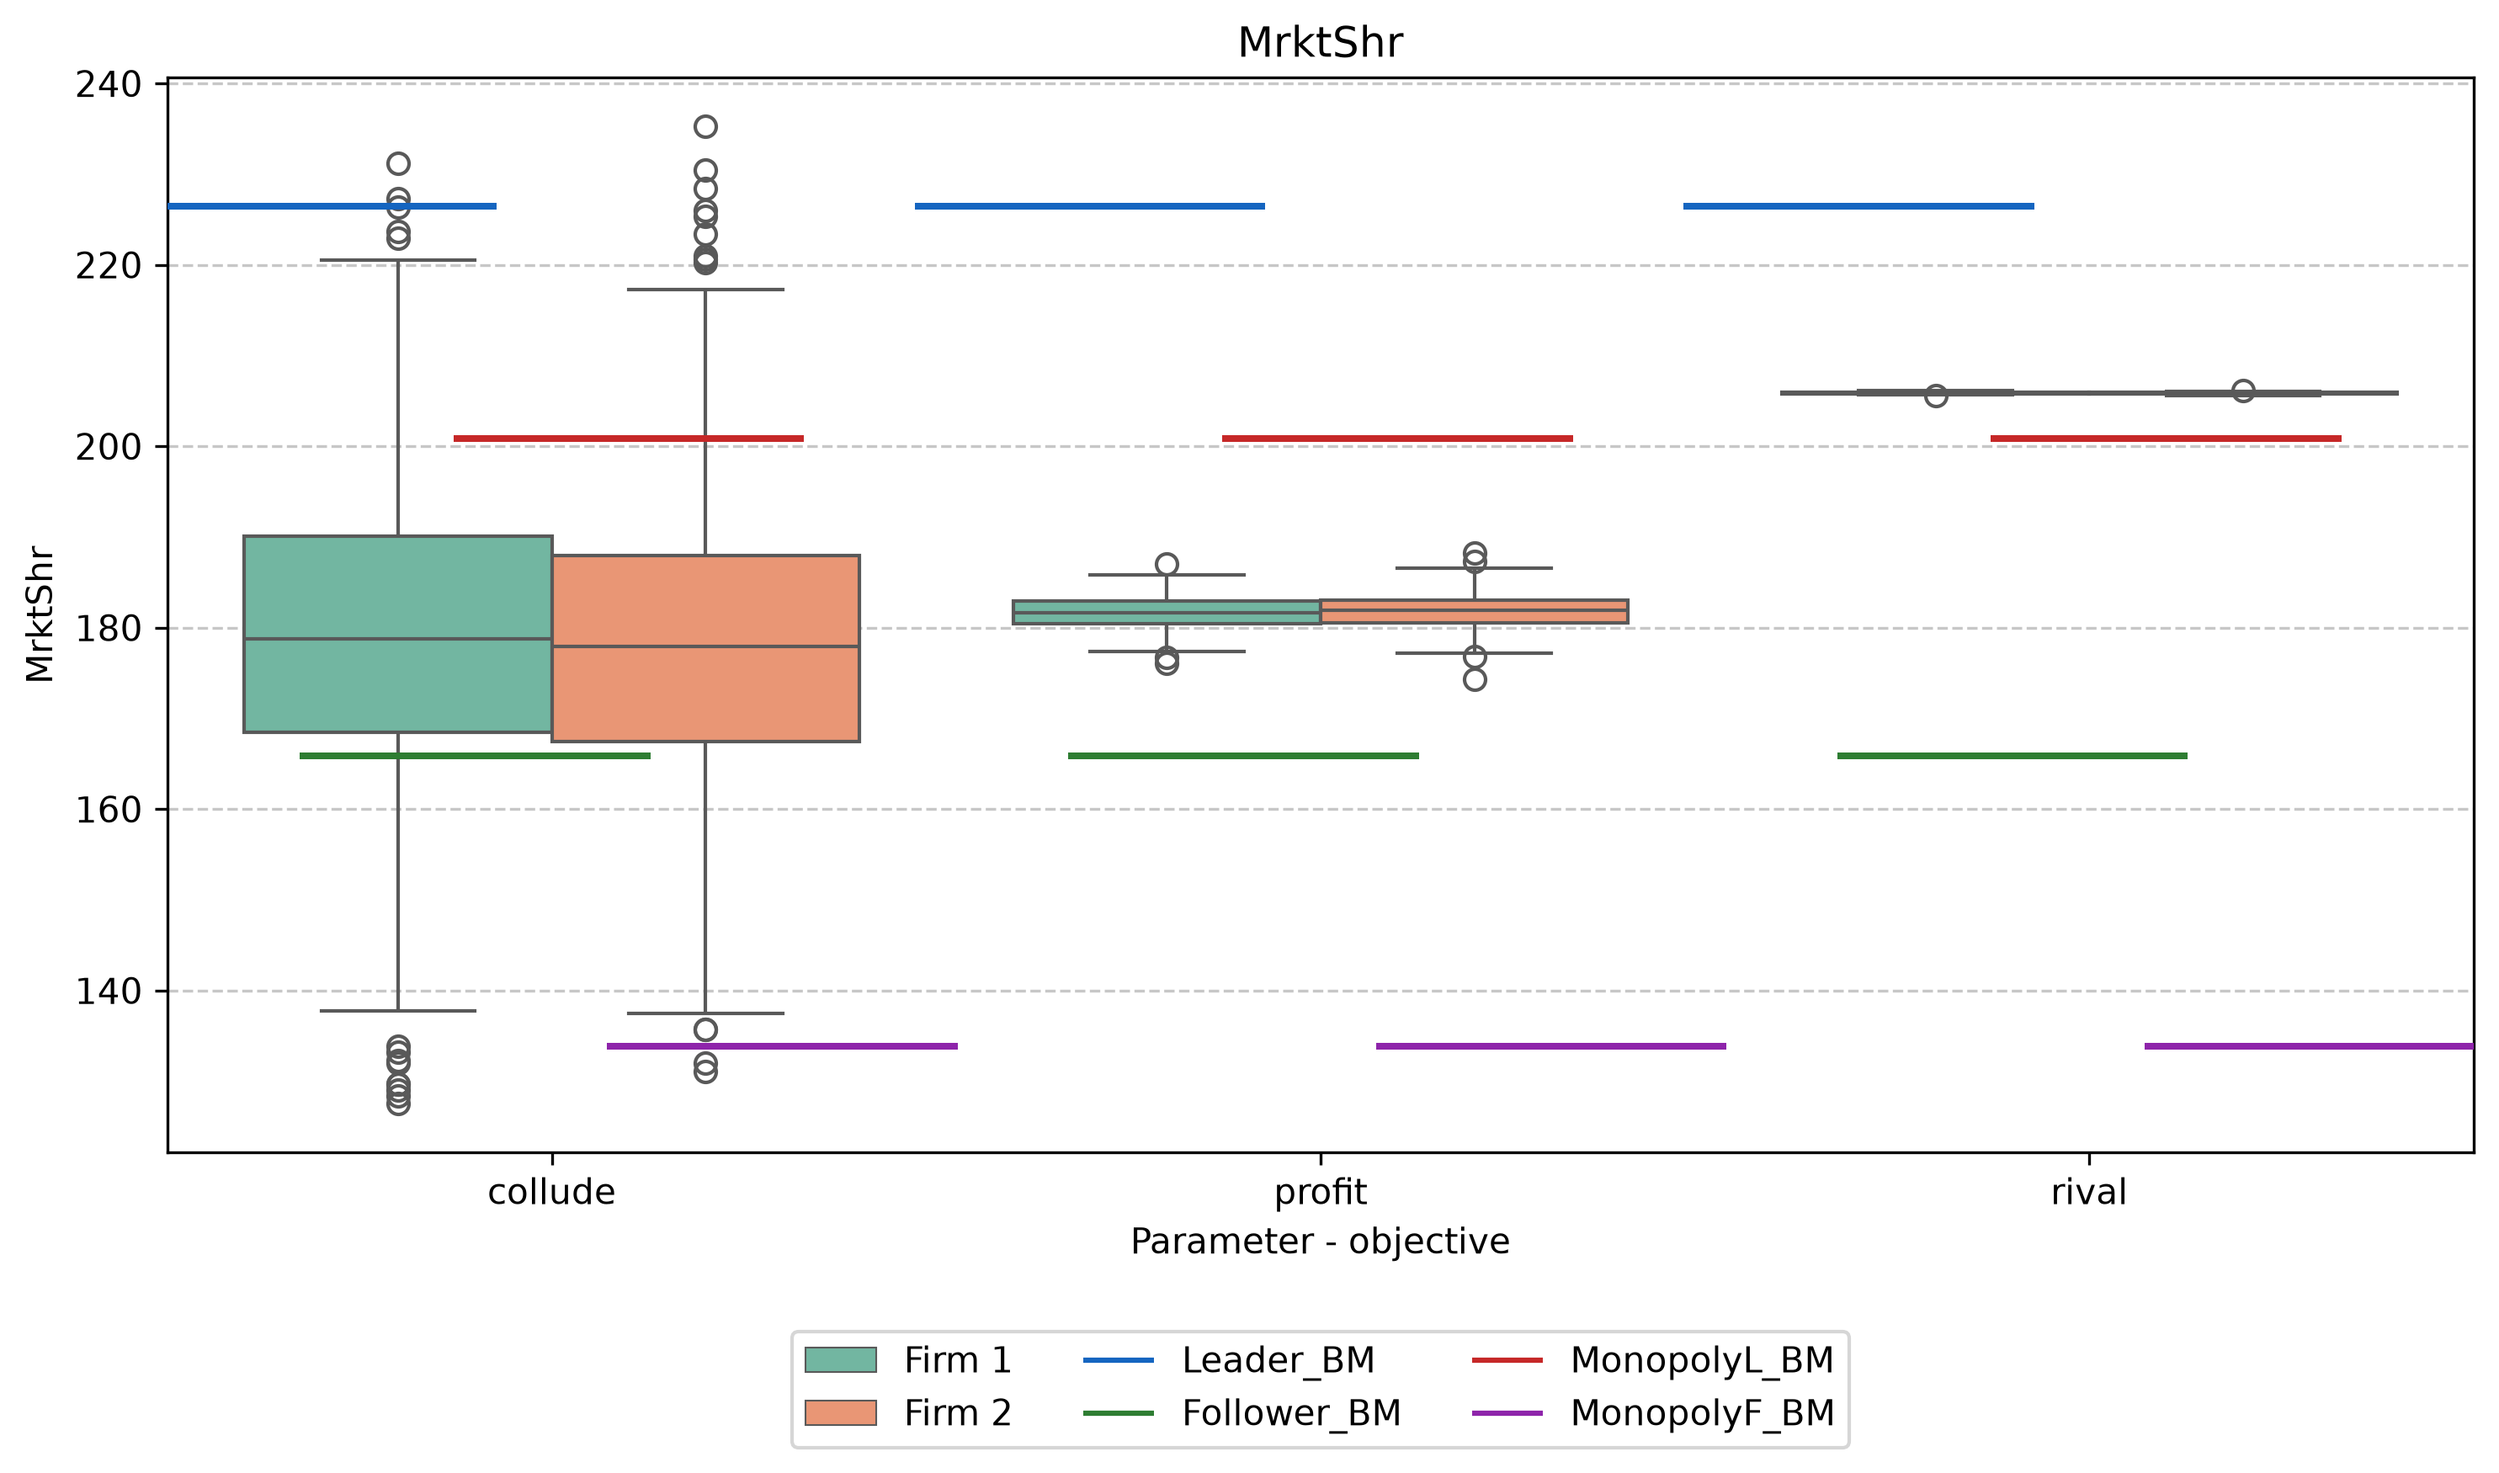
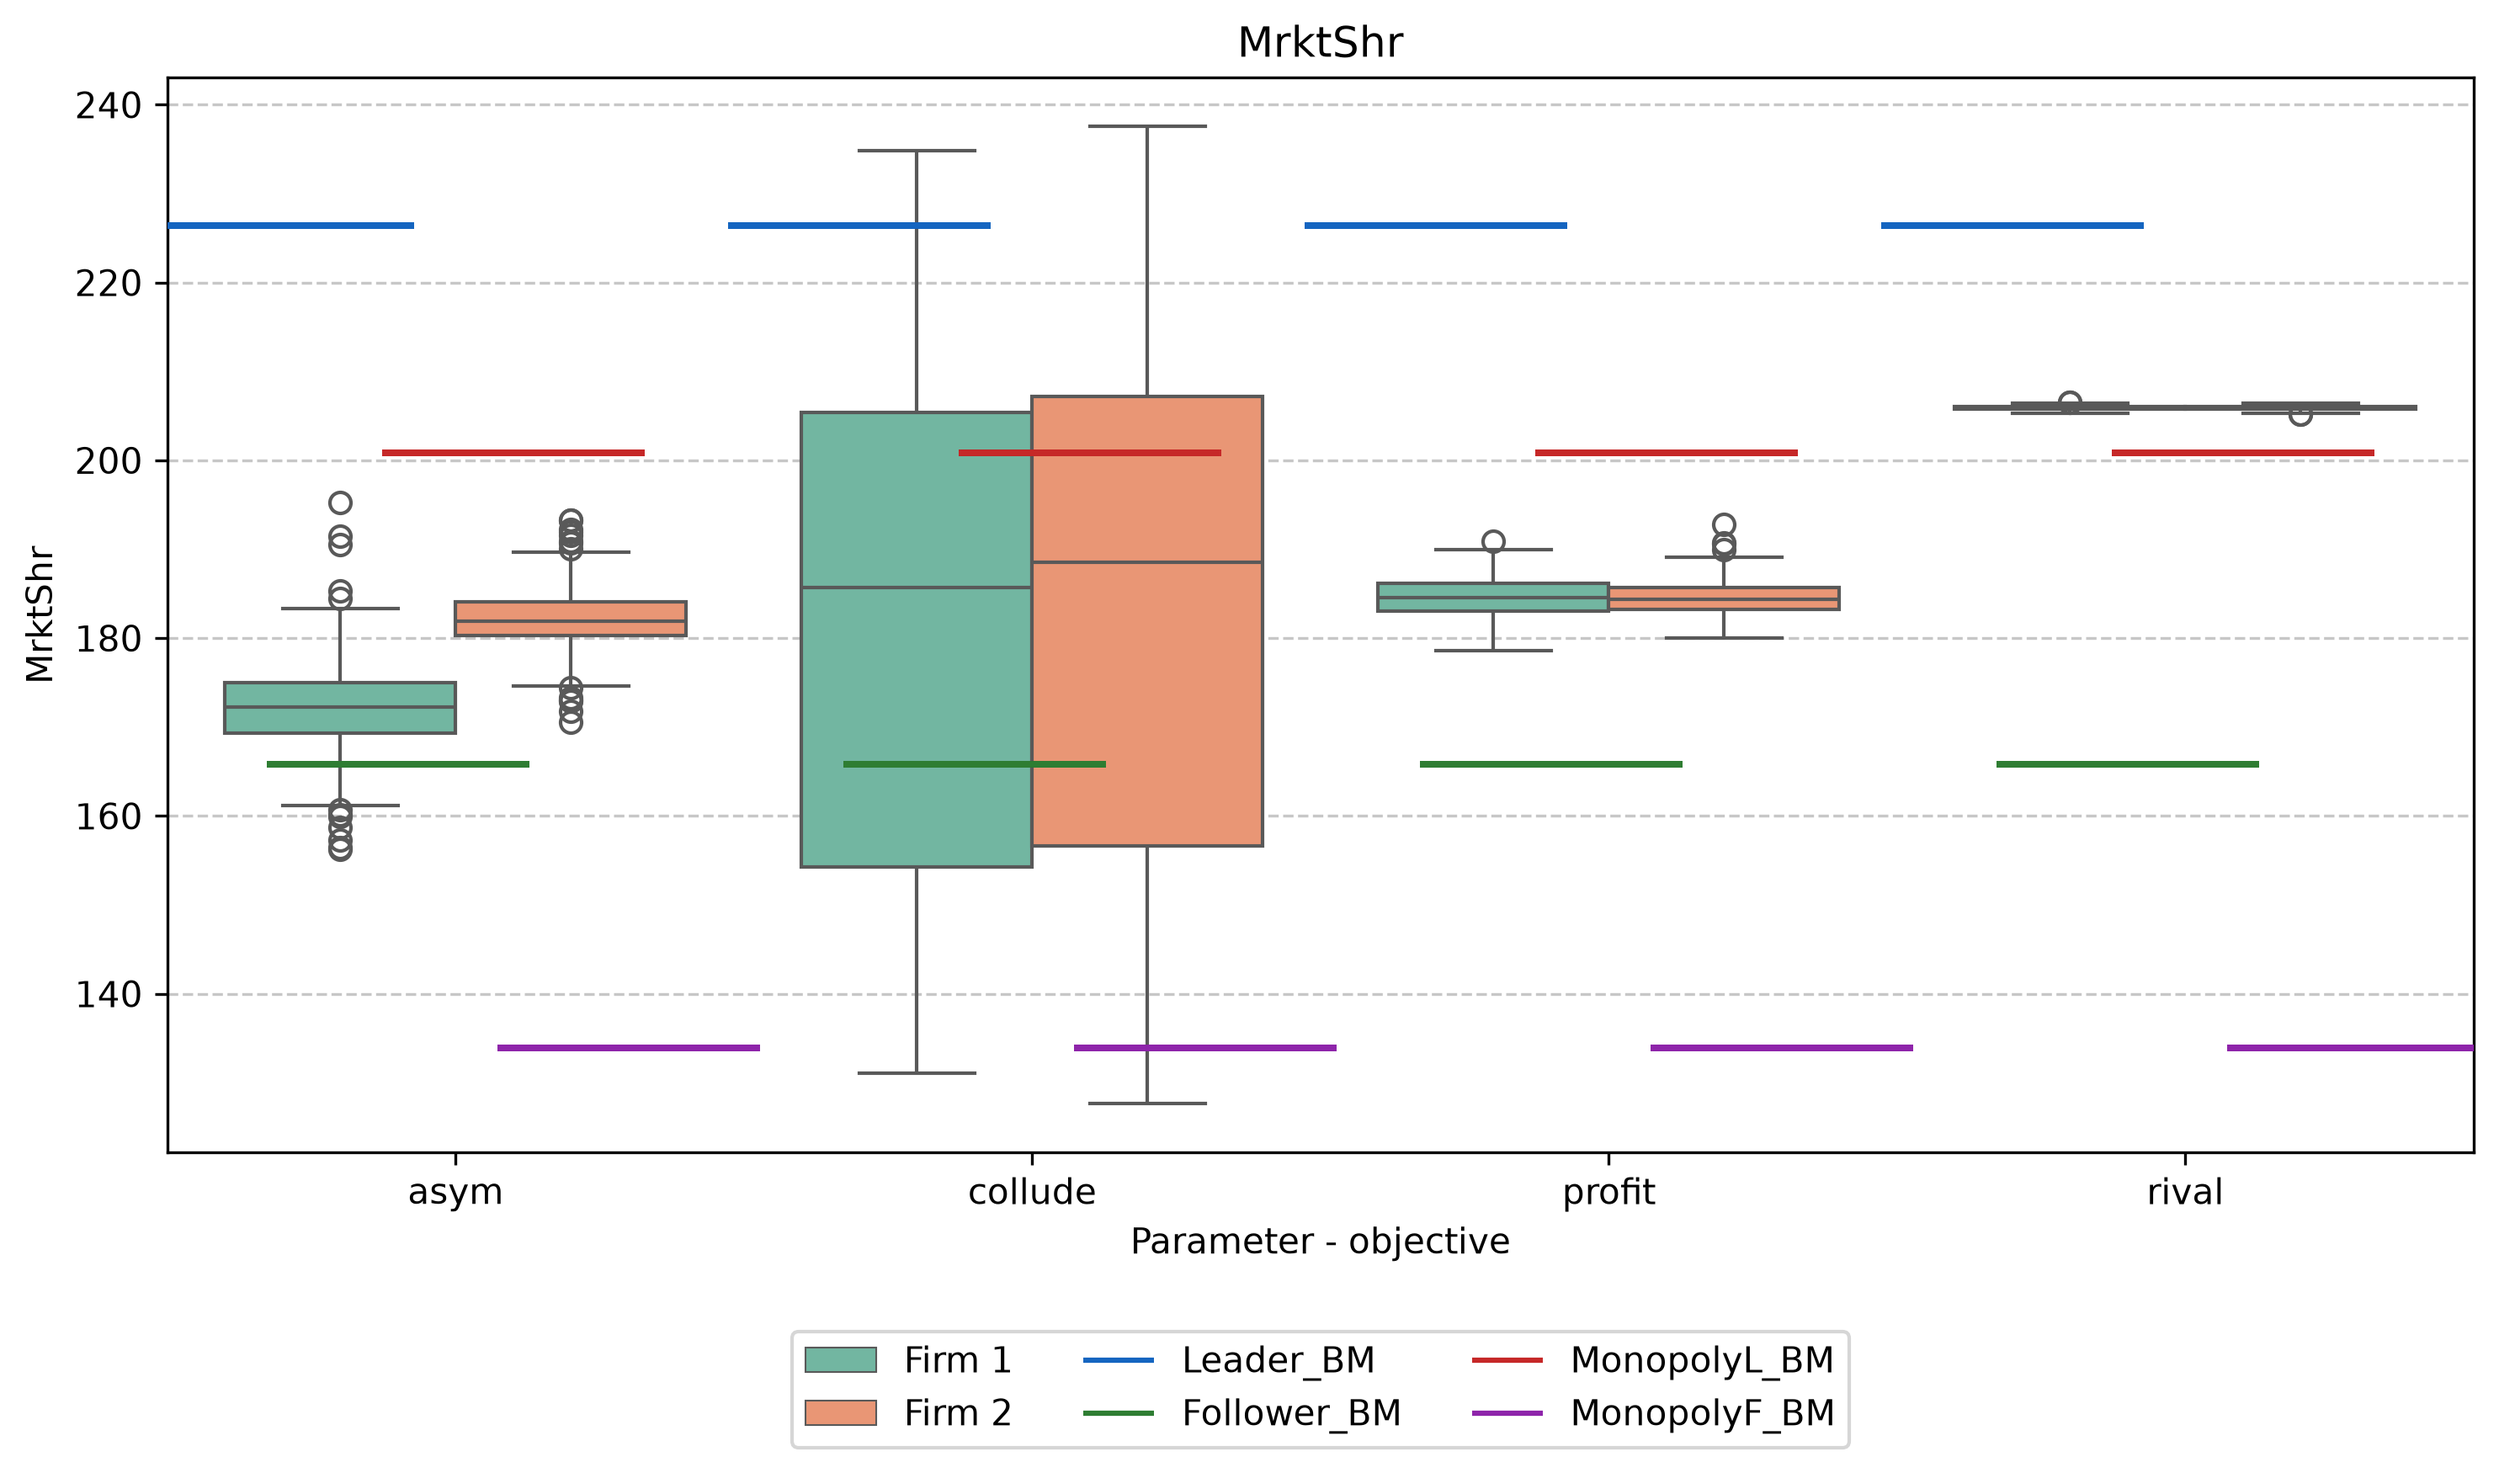
NOV Update

diff --git a/Main.py b/Main.py
@@ -27,6 +27,7 @@ def Simulate(ClusterTest=False,Progress=True):
     parser.add_argument("--mc",type=float,default=None)
     parser.add_argument("--objective", type=str, default=None)
     parser.add_argument("--investments", type=int, default=None)
+    parser.add_argument("--minexplor", type=float, default=None)
 
         #simulation details
     parser.add_argument("--plot", type=float, default=False)
@@ -44,7 +45,8 @@ def Simulate(ClusterTest=False,Progress=True):
         "mrktsz":args.mrktsz,
         "mc":args.mc,
         "objective":args.objective,
-        "investments_count":args.investments
+        "investments_count":args.investments,
+        "minexplorprob":args.minexplor
     }
 
     # Remove None values
@@ -70,7 +72,8 @@ def Simulate(ClusterTest=False,Progress=True):
     ConsumerSurplus = config.ConsumerSurplus
     initialM = config.startingM
     objective = config.objective
- 
+    min_explor_prob = config.minexplorprob
+
     #Possible state and action vectors
     Possible_States = list(product(*( [prices] * (firms * lags) + [positions] )))
     Possible_Actions = list(product(prices, investments))
@@ -135,7 +138,7 @@ def Simulate(ClusterTest=False,Progress=True):
                 print("No converge cap hit")
                 break
             
-            epsilon = max((epsilon_decay * Round) + 1,0)
+            epsilon = max((epsilon_decay * Round) + 1,min_explor_prob)
           
 
             Prices = []
@@ -177,7 +180,17 @@ def Simulate(ClusterTest=False,Progress=True):
                     for i, value in enumerate(Profits_array)
                     ])
                 Firm_Objective = differences
-    
+
+            elif objective == "asym":
+                Profits_array = np.array(Profit)
+                differences = np.array([
+                    value - np.mean(np.delete(Profits_array, i))
+                    for i, value in enumerate(Profits_array)
+                    ])
+                #create 1 firm that is rivaling and rest are profit max
+                Profits_array[-1] = differences[-1]
+                Firm_Objective = Profits_array
+
             #Calculate best possible outcomes next period 
             Leader_Best = []
             Follower_Best = []

diff --git a/BestResponses.py b/BestResponses.py
@@ -1,0 +1,69 @@
+import math
+import numpy as np
+import matplotlib.pyplot as plt
+from scipy.optimize import fsolve
+
+num_followers = 1
+a = 0.1
+b = 0.5
+mc = 1
+
+def price_equation(P, p):
+    D = (num_followers * math.exp(-a * p)) + ((1 + b) * math.exp(-a * P)) + 1
+    s_L = ((1 + b) * math.exp(-a * P)) / D
+
+    return mc + (1 / (a * (1 - s_L))) - P
+
+
+# Range of follower prices
+follower_prices = np.linspace(12, 17, 100)
+leader_prices = []
+
+# Solve for the leader's best-response price at each follower price
+for p in follower_prices:
+    P = fsolve(price_equation, mc + 10, args=(p,))[0]
+    leader_prices.append(P)
+
+# Convert to NumPy arrays
+x = np.array(follower_prices)
+y = np.array(leader_prices)
+
+# Identify where follower price > leader price
+mask = x > y
+
+# Plot
+plt.figure(figsize=(8, 5))
+
+# Blue where follower price <= leader price
+plt.plot(
+    x,
+    np.where(~mask, y, np.nan),
+    color="blue",
+    label="Leader should charge higher"
+)
+
+# Red where follower price > leader price
+plt.plot(
+    x,
+    np.where(mask, y, np.nan),
+    color="red",
+    label="Leader should undercut"
+)
+#put point about where results are
+plt.scatter(14.6, 14.8, color="Green", s=40, zorder=5)
+plt.annotate(
+    "Approximate simulation result",
+    xy=(14.6, 14.8),
+    xytext=(13.5, 15),  # Position of the text box
+    bbox=dict(boxstyle="round,pad=0.4", fc="white", ec="black"),
+    arrowprops=dict(arrowstyle="->", color="black")
+)
+plt.ylim(13, 16)
+
+plt.xlabel("Follower price")
+plt.ylabel("Leader best-response price")
+plt.title(r"Leader's Best Response: $p_\ell = \frac{1}{\alpha(1-s_\ell)} + mc$")
+plt.grid(True)
+plt.legend()
+plt.tight_layout()
+plt.show()

diff --git a/Settings.py b/Settings.py
@@ -33,6 +33,7 @@ class Config:
     objective:str="profit"
     explorationlen: int = None
     epsilon_decay: float = None
+    minexplorprob: float = 0
 
     #Holder variables
     MonopolyP: float = None
